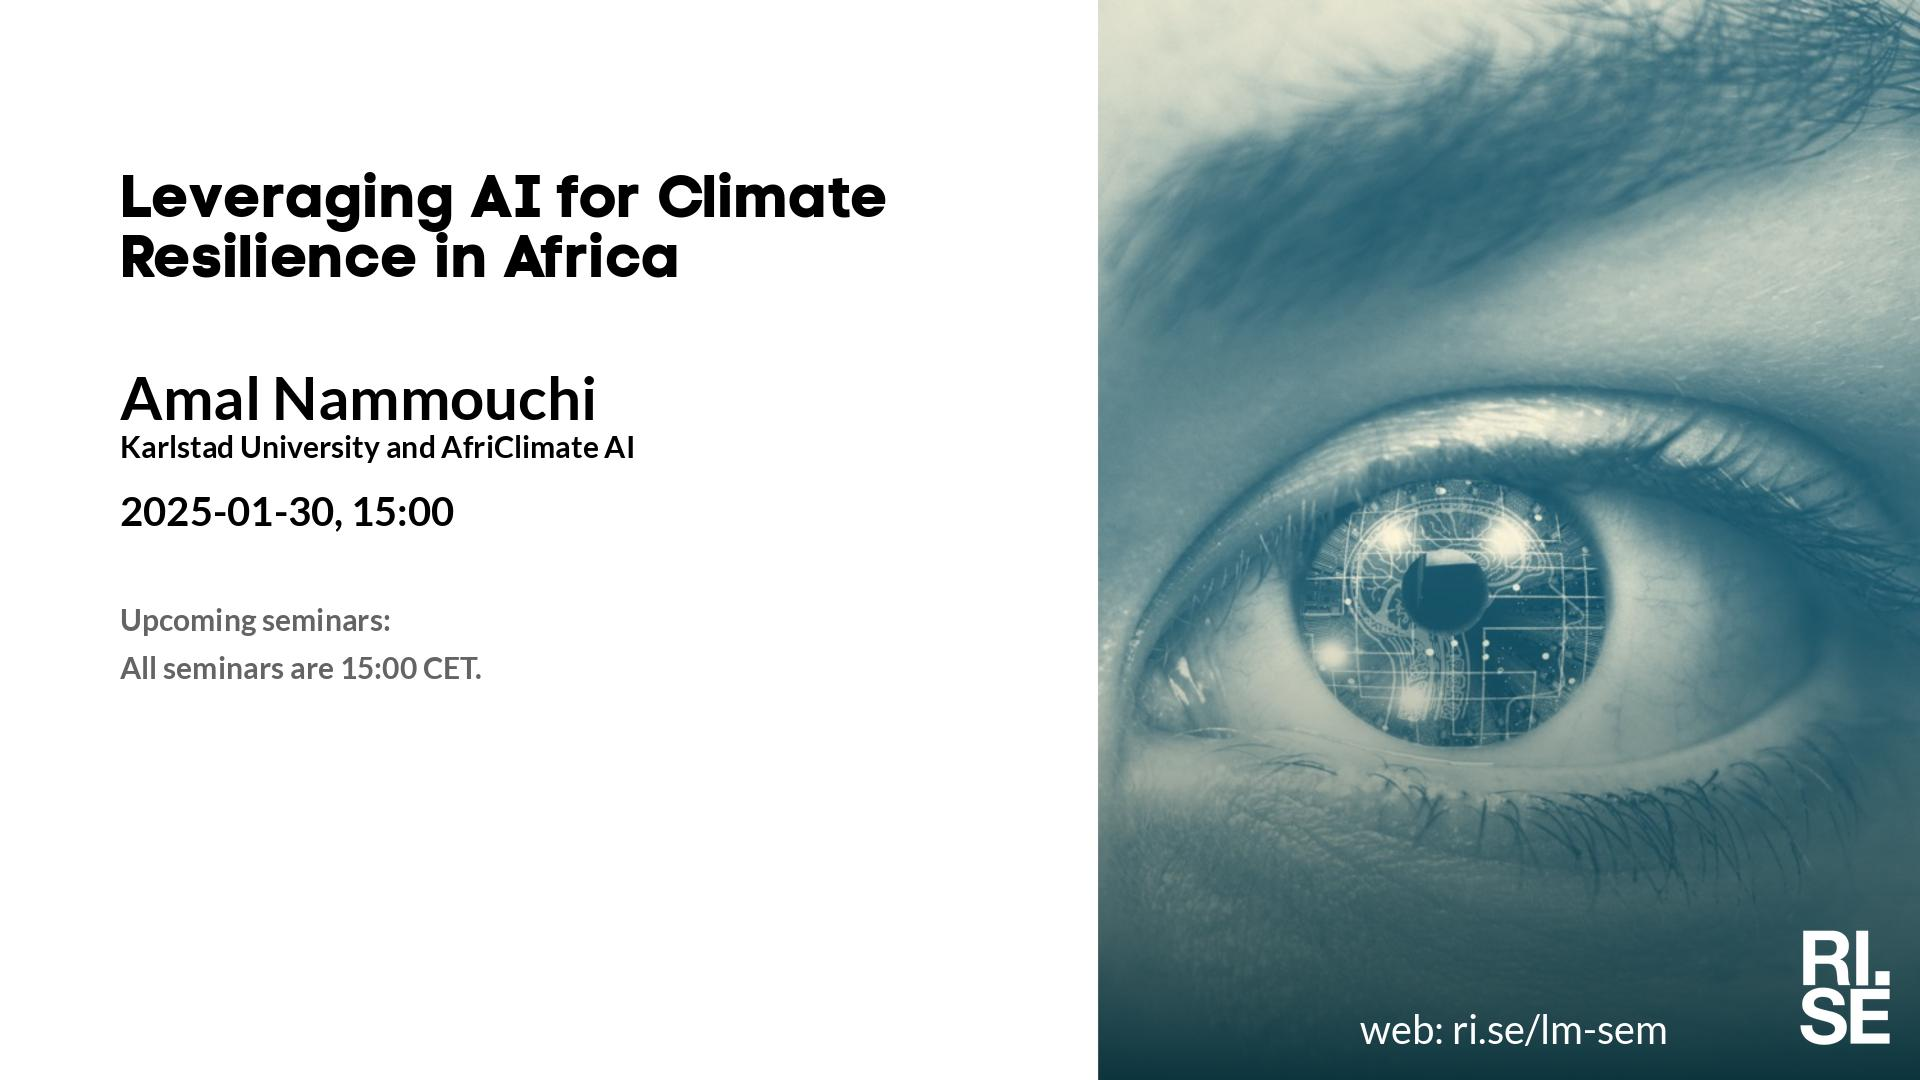
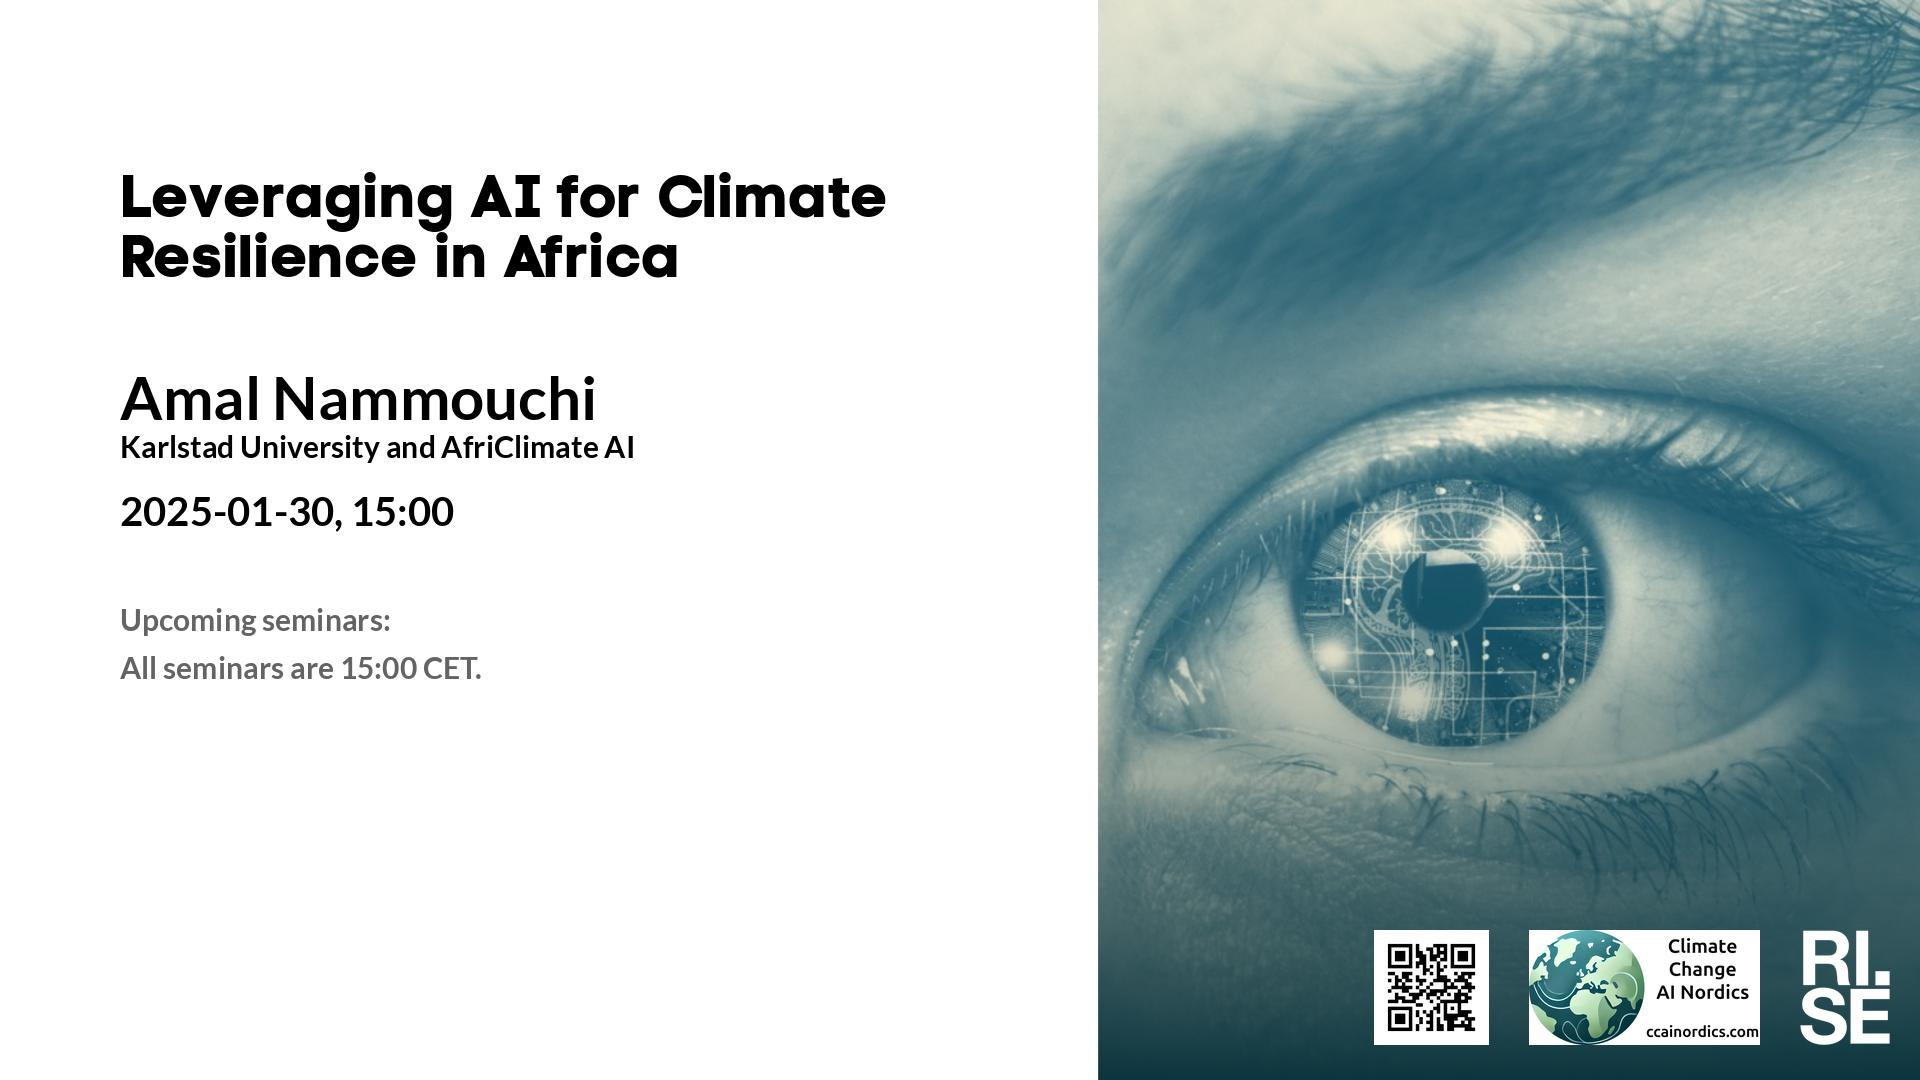
Updated plan on web site.

Changed region(s): [[0.6875, 0.8556, 0.9375, 0.9778]]

diff --git a/lm/2025-01-30.md b/lm/2025-01-30.md
@@ -5,6 +5,8 @@ metatags: "<meta name=\"robots\" content=\"noindex,nofollow\" />"
  
 Welcome to this week's Learning Machines seminar.
 
+This seminar is a collaboration between RISE and Climate Change AI Nordics -- [ccainordics.com](https://ccainordics.com/).
+
 **Title:** Leveraging AI for Climate Resilience in Africa: Challenges, Opportunities, and the Need for Collaboration
 
 **Speaker:** Amal Nammouchi, Karlstad University and AfriClimate AI
